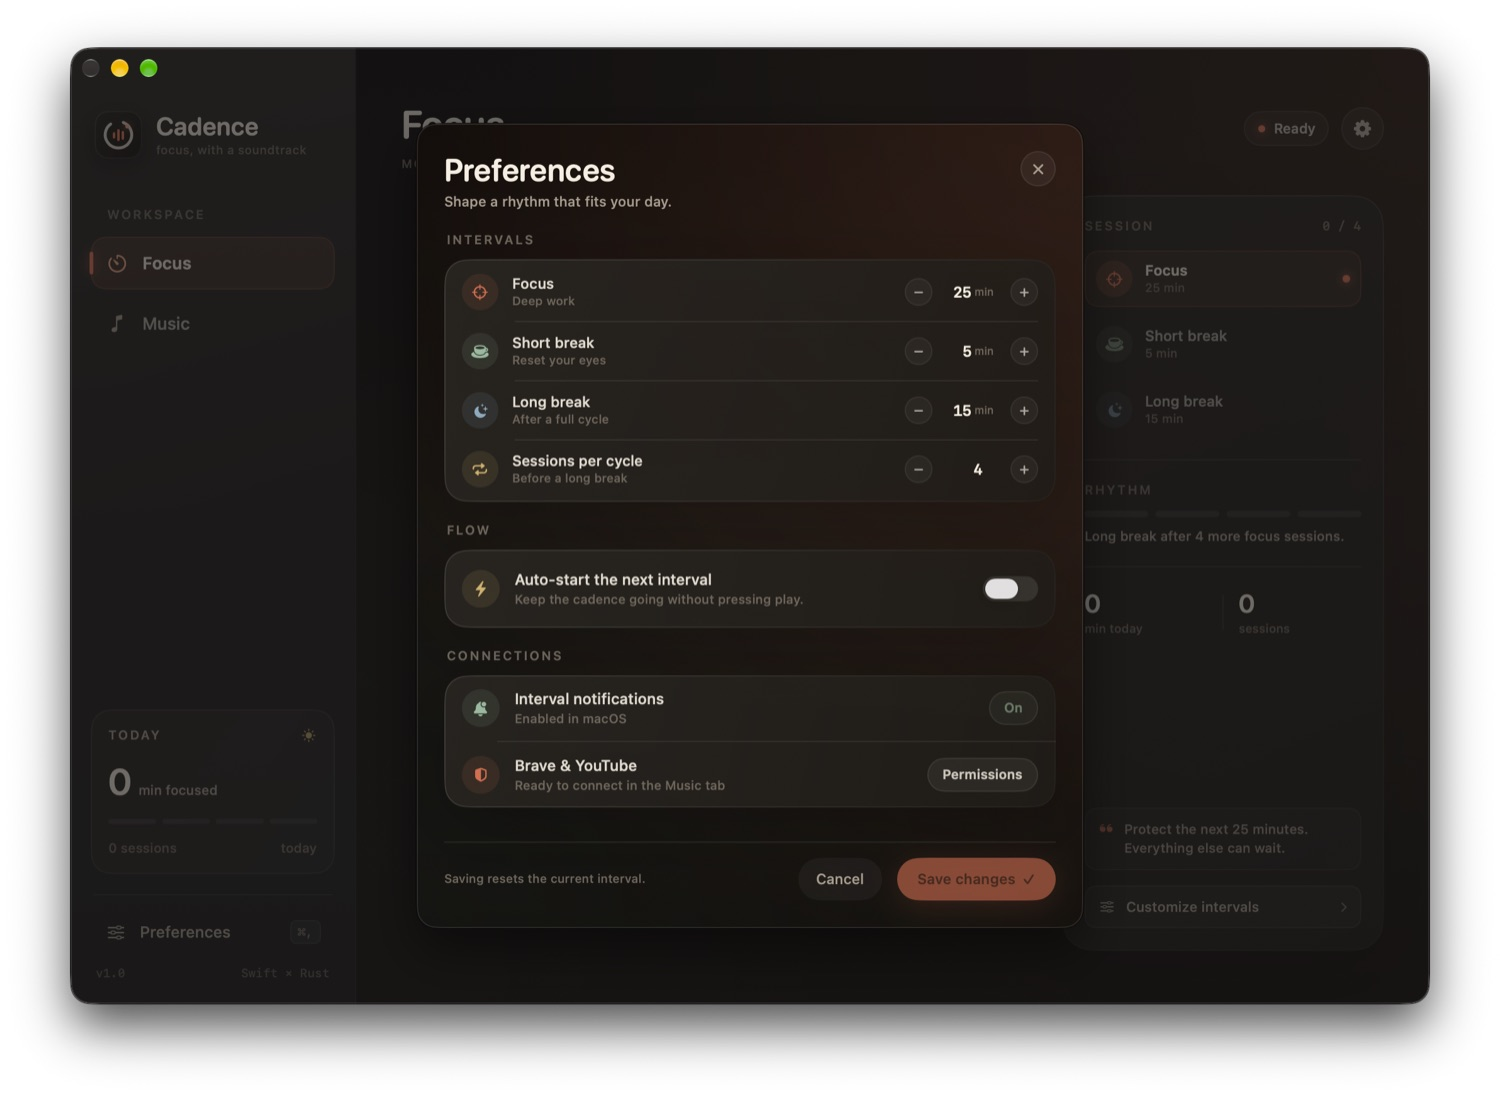
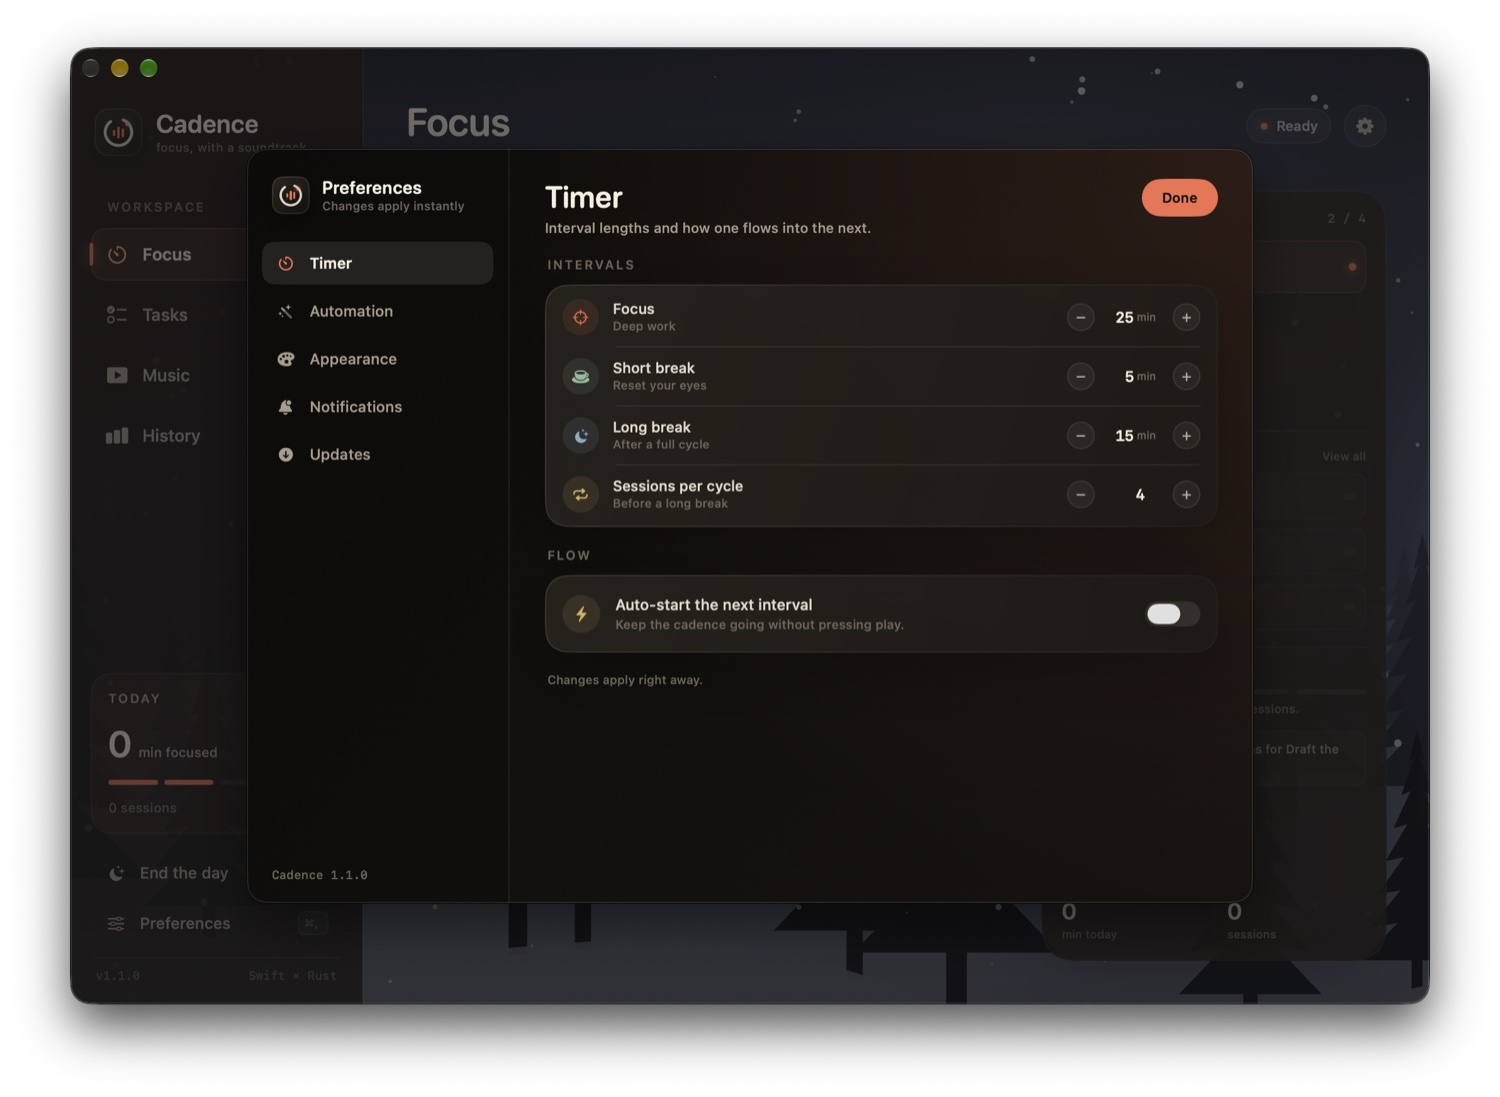
Refresh README and screenshots for v1.1 features

diff --git a/README.md b/README.md
@@ -10,12 +10,14 @@ Cadence is deliberately split down the middle: the interface is SwiftUI, while t
 
 ## What's inside
 
-- **Focus** — 25/5/15 Pomodoro intervals, a long break every four focus sessions, configurable durations, an intention check-in before each focus block, and today's stats. A running interval survives quitting and relaunching.
+- **Focus** — 25/5/15 Pomodoro intervals, a long break every four focus sessions, configurable durations, a one-off length for the next interval (e.g. a 20 min block, credited at its real length), an intention check-in before each focus block, and today's stats. A running interval survives quitting and relaunching.
 - **Tasks** — an urgent/important matrix with block estimates, and a day plan that time-boxes your open tasks into focus blocks and breaks toward a daily target.
 - **History** — every completed focus block is logged with its task, quadrant and intention: last-14-days chart, weekly total, streak, best day, and a quadrant split.
 - **Music** — an embedded YouTube player (paste a link, or pull the video playing in Brave and continue it in Cadence). Optionally pauses when focus stops and resumes when it starts.
 - **Automation** — a focus guard that nudges you when a distracting app comes forward during focus, and Shortcuts that run when focus starts/stops (e.g. to toggle a macOS Focus mode).
 - **Notifications** — the interval-end banner is scheduled with macOS when an interval starts, so it arrives on time even if the app is throttled or quit.
+- **Ambient backgrounds** — animated scenes (rainy forest, rainy café, city rain, snowfall), abstract backgrounds, or a video background.
+- **Preferences** — Timer, Automation, Appearance, Notifications and Updates panes; every change applies instantly, and changing interval lengths never interrupts the interval in progress.
 - **Menu bar widget** and an **end-of-day shutdown ritual**.
 - **Keyboard-first** — start, pause, reset, skip, and switch tabs without leaving the keyboard.
 
@@ -29,7 +31,7 @@ The app is ad-hoc signed, not notarized, so the first launch is blocked by Gatek
 
 ### Updates
 
-Cadence checks GitHub for a newer release once a day. When one exists, you'll see a notice. Install it from **Preferences → General → Updates** or **Cadence → Check for Updates…**. Cadence downloads the release, checks that it is a valid Cadence bundle of the expected version, replaces itself, and relaunches. The app needs write access to the folder it lives in (true for `/Applications` on most Macs).
+Cadence checks GitHub for a newer release once a day. When one exists, you'll see a notice. Install it from **Preferences → Updates** or **Cadence → Check for Updates…**. Cadence downloads the release, checks that it is a valid Cadence bundle of the expected version, replaces itself, and relaunches. The app needs write access to the folder it lives in (true for `/Applications` on most Macs).
 
 After an update, macOS may ask again for permission to control Brave. This happens because each ad-hoc signed build is treated as a new app.
 
@@ -54,6 +56,7 @@ To build a standalone Release app:
 ```bash
 make release
 open dist/Cadence.app
+make zip   # packages dist/Cadence-<version>.zip
 ```
 
 ## Music and Brave
@@ -73,7 +76,14 @@ If several YouTube tabs are open, Cadence uses the active tab in the front windo
 ## A closer look
 
 <p align="center">
+  <img src="docs/screenshots/tasks.jpg" width="48%" alt="Eisenhower task board and day plan" />
+  <img src="docs/screenshots/history.jpg" width="48%" alt="Focus history" />
+</p>
+<p align="center">
+  <img src="docs/screenshots/intention.jpg" width="48%" alt="Intention check-in with a one-off length" />
   <img src="docs/screenshots/focus-running.jpg" width="48%" alt="A focus interval running" />
+</p>
+<p align="center">
   <img src="docs/screenshots/settings.jpg" width="48%" alt="Cadence preferences" />
 </p>
 
@@ -123,7 +133,7 @@ void  cadence_core_free(char *pointer);
 uint32_t cadence_core_abi_version(void);
 ```
 
-Requests and responses are JSON. Commands: `initialize`, `tick`, `timer.start`, `timer.resume`, `timer.pause`, `timer.toggle`, `timer.reset`, `timer.skip`, `timer.select`, `timer.configure`, `timer.assignTask`, `tasks.list`, `tasks.add`, `tasks.update`, `tasks.toggle`, `tasks.delete`, `tasks.clearOpen`, `sessions.list`, and `plan.build`.
+Requests and responses are JSON. Commands: `initialize`, `tick`, `timer.start`, `timer.resume`, `timer.pause`, `timer.toggle`, `timer.reset`, `timer.skip`, `timer.select`, `timer.configure`, `timer.setLength`, `timer.assignTask`, `tasks.list`, `tasks.add`, `tasks.update`, `tasks.toggle`, `tasks.delete`, `tasks.clearOpen`, `sessions.list`, and `plan.build`.
 
 The Rust core owns:
 
@@ -151,6 +161,8 @@ core/
   Cargo.toml
 scripts/
   generate_icon.py     Rebuilds the app icon asset catalog
+  release.sh           Bumps the version, tests, tags and pushes a release
+.github/workflows/     CI and tag-driven release builds
 docs/screenshots/      README screenshots
 project.yml            XcodeGen project definition
 Cadence.xcodeproj      Ready-to-open Xcode project
